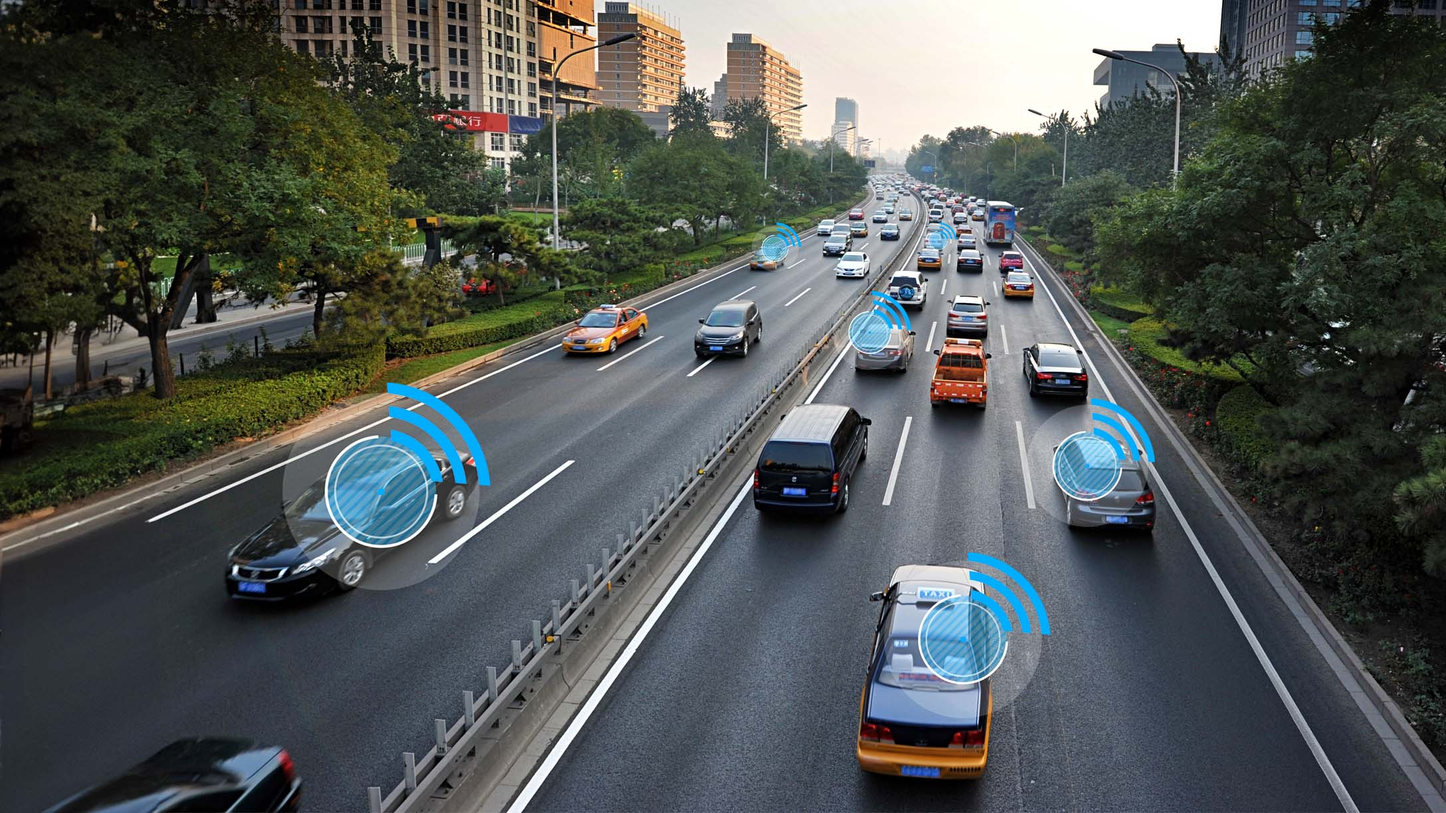
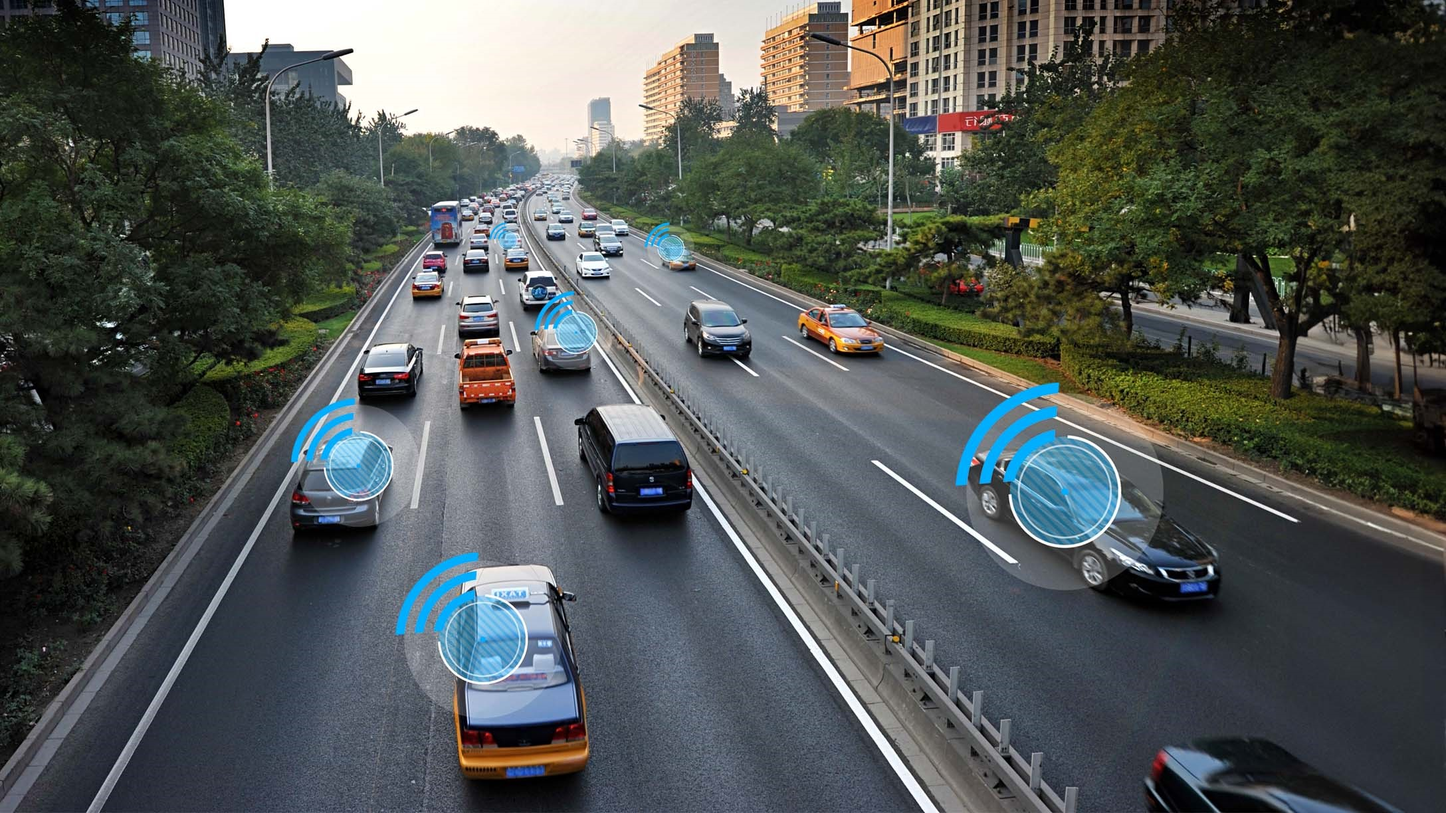
Image flip

diff --git a/styles/homepage.css b/styles/homepage.css
@@ -278,8 +278,8 @@
     position: relative;
     background: var(--light);
     display: flex;
-    margin-top: 2rem;
-    padding-bottom: 2rem;
+    margin-top: 4rem;
+    padding-bottom: 4rem;
     text-align: center;
 }
 #solutionBuilder > div{
